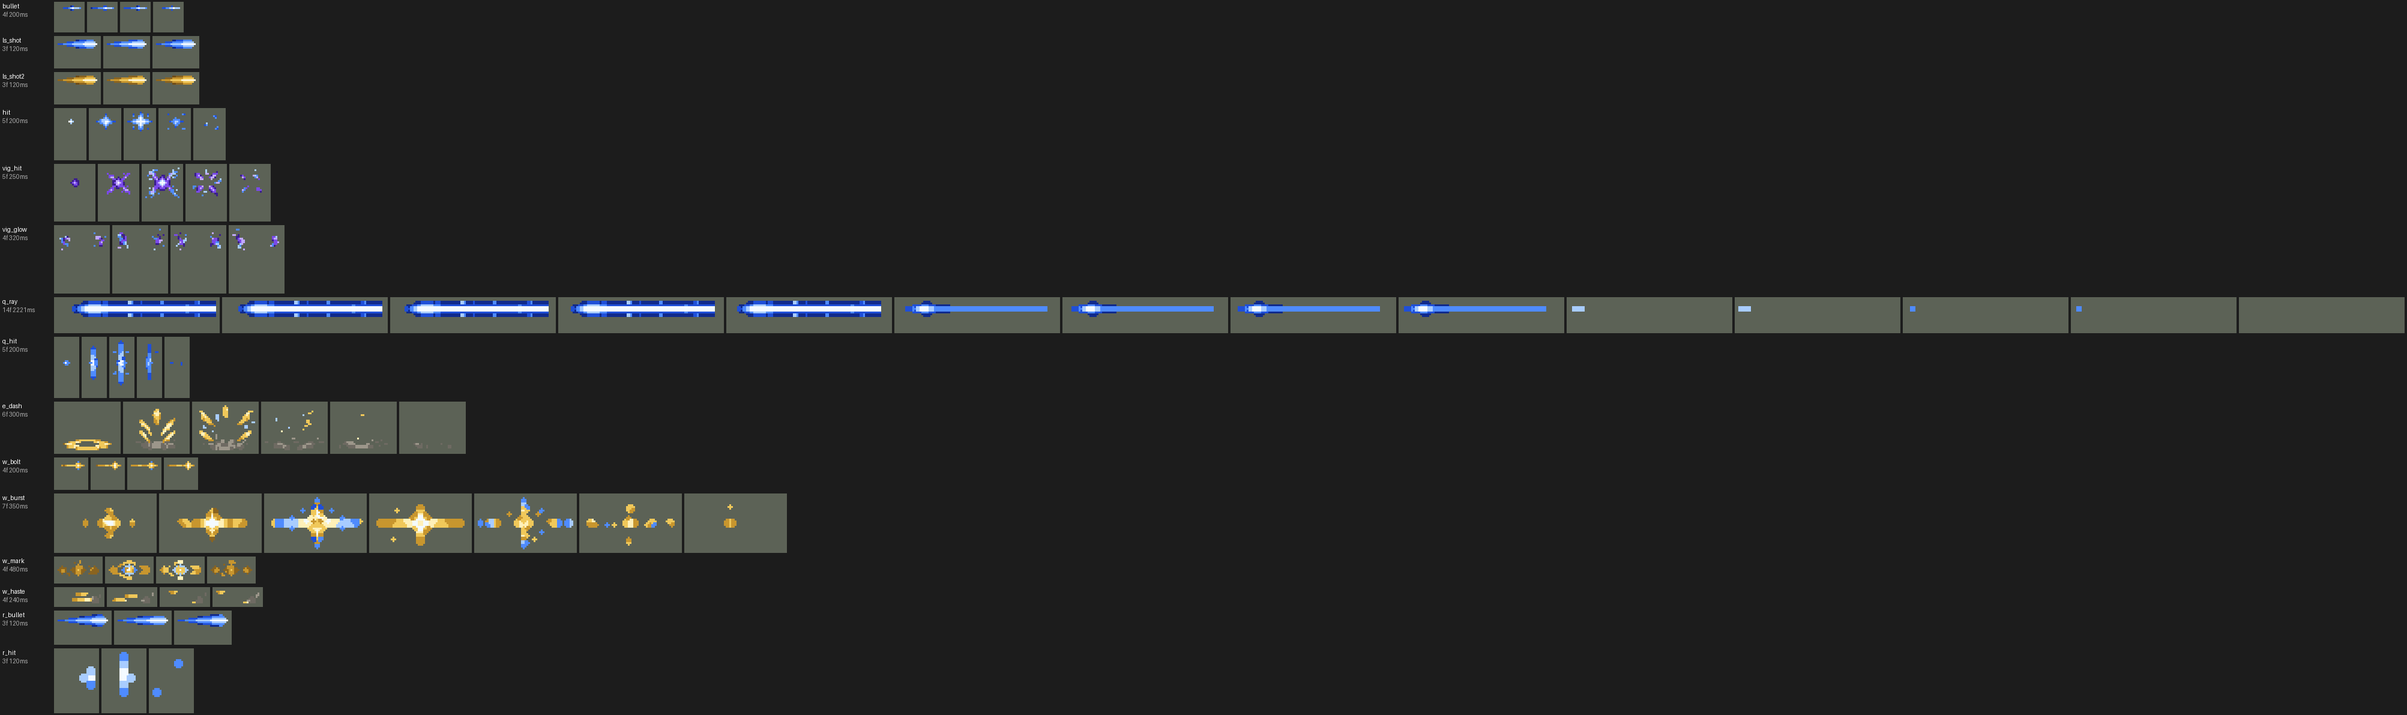
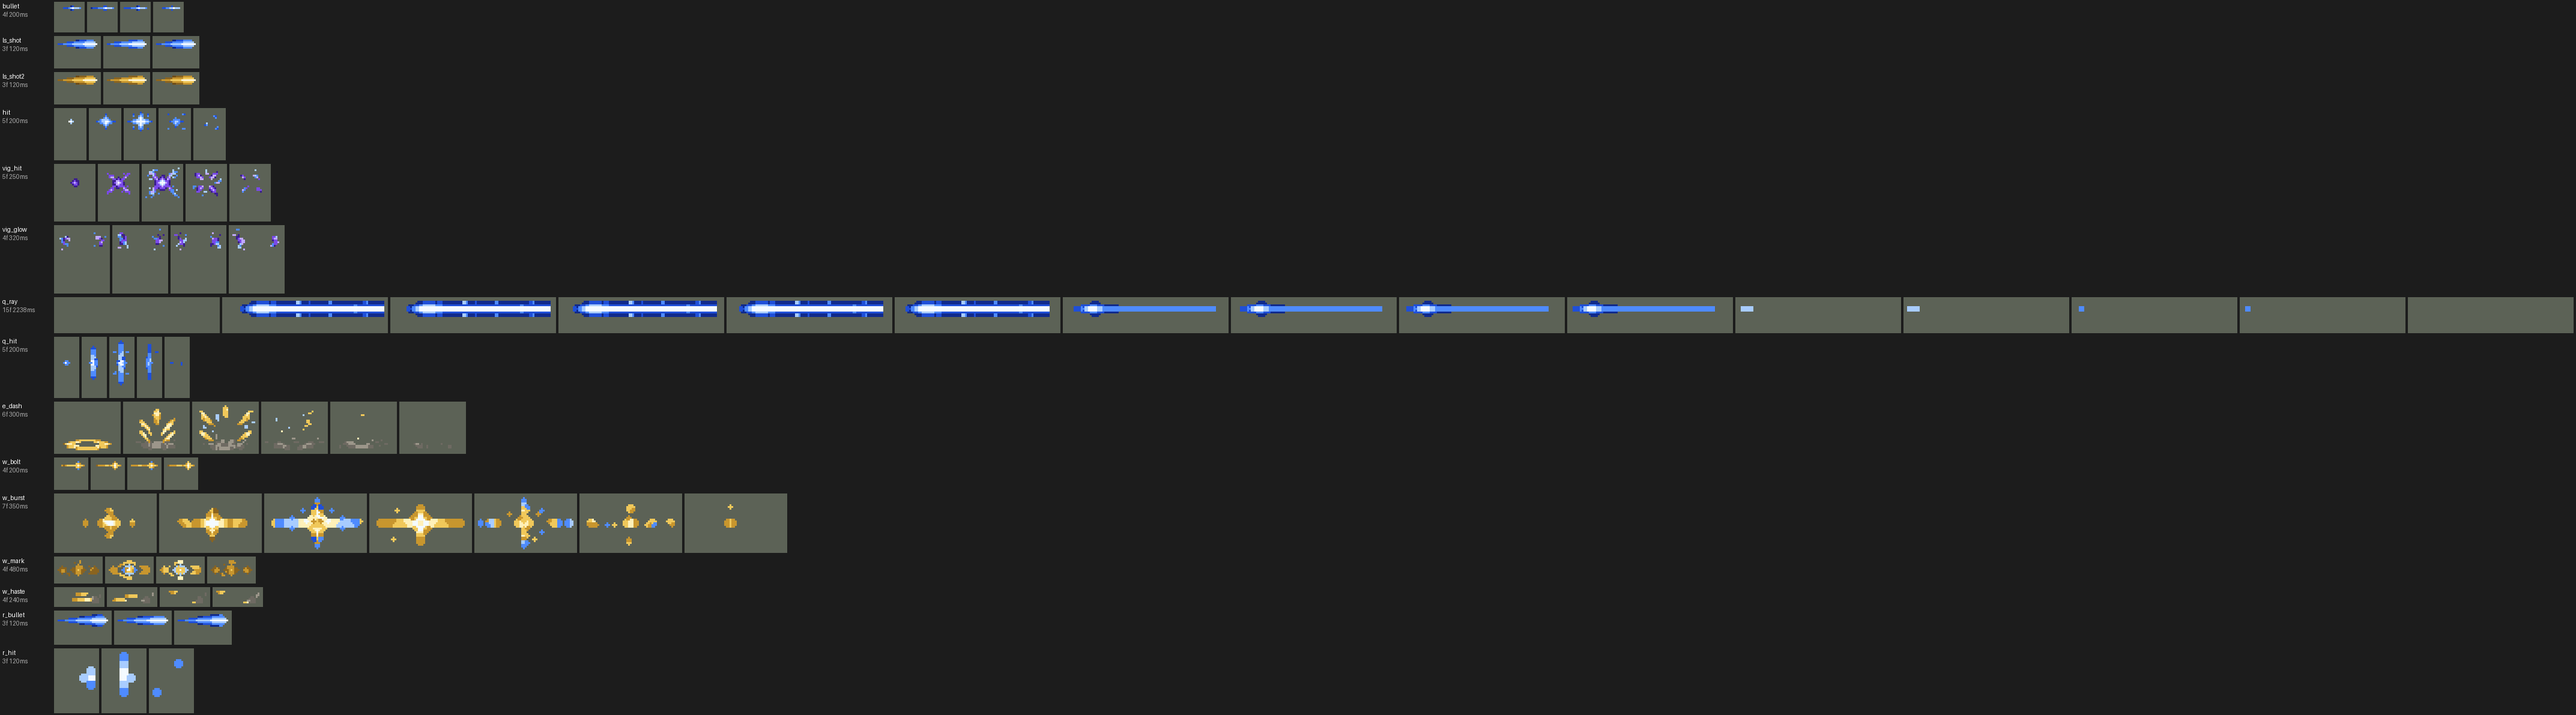
Lucian: previews with the Q beam's empty first tick

diff --git a/README.md b/README.md
@@ -50,7 +50,7 @@
 ![费德提克演示：跑进场，站着不动后的第一记普攻（巫骇草人）吓跑德莱厄斯、Q 恐惧的乌鸦扑向盖伦，幽灵稻草人从他身上尖叫着冒出来，盖伦恐惧逃开、两人走回来，费德提克上前再打德莱厄斯一下、技能2 的夜割新月斩在盖伦身上（正中的盖伦被缝上嘴沉默，德莱厄斯只受伤减速），接着五骨丰登引导 2 秒，魂一缕缕从两人身上被吸出来，两人身上各连出一条魂链、白魂沿着链流回费德提克，最后一下整个魂影被撕出、两人后撤，R 群鸦风暴在盖伦脚下亮起鸦群印记，引导 1 秒后费德提克化成乌鸦飞走、落在印记上，鸦群绕着他转 5 秒，落地时两人恐惧逃开，德莱厄斯倒在风暴里](docs/preview/league_fiddlesticks_showcase.gif?v=0930d)
 ![阿狸演示：跑进场、E 魅惑妖术的飞吻命中德莱厄斯，他头上冒爱心、朝阿狸走过来、Q 欺诈宝珠穿过他再飞回（回程真实伤害），同时妖异狐火绕身三圈后追向被魅惑的德莱厄斯、普攻、三个技能命中后摄魂夺魄攒满，腰间亮起精魄光点、R 灵魄突袭三段：贴身时往后冲并留下灵气、精魄弹命中，攒满的被动给阿狸回血，再往前冲、又退开，德莱厄斯倒下、盖伦走来，再一记飞吻魅惑他、宝珠往返、三次普攻](docs/preview/league_ahri_showcase.gif?v=1001edge)
 
-![卢锡安演示：跑进场，德莱厄斯还在射程外，E 冷酷追击往前冲到射程内，热诚烈弹在他脚下炸开星形十字并标记他、接下来两次普攻都连开两枪（第二枪金色），每次命中加速（脚下的速度线）、Q 透体圣光：双枪平举在肩膀高度，光束从枪口穿过德莱厄斯，再连开两枪、一发普攻、R 圣枪洗礼原地连射 3 秒蓝白曳光弹，每枪射向最近的英雄，德莱厄斯倒下，剩下的打向走来的盖伦、盖伦贴身，E 冷却好后往后冲出他的攻击范围，烈弹在盖伦身上炸开，接着连开两枪](docs/preview/league_lucian_showcase.gif?v=0930c)
+![卢锡安演示：跑进场，德莱厄斯还在射程外，E 冷酷追击往前冲到射程内，热诚烈弹在他脚下炸开星形十字并标记他、接下来两次普攻都连开两枪（第二枪金色），每次命中加速（脚下的速度线）、Q 透体圣光：双枪平举在肩膀高度，光束从枪口穿过德莱厄斯，再连开两枪、一发普攻、R 圣枪洗礼原地连射 3 秒蓝白曳光弹，每枪射向最近的英雄，德莱厄斯倒下，剩下的打向走来的盖伦、盖伦贴身，E 冷却好后往后冲出他的攻击范围，烈弹在盖伦身上炸开，接着连开两枪](docs/preview/league_lucian_showcase.gif?v=1001qflash)
 
 ![莫甘娜演示：走上前放 Q 暗之禁锢，弹核拖着锁链尾迹飞向德莱厄斯，禁锢锁链缠住他、脚下铺开折磨之影的焦油地；上前打两发暗影弹；德莱厄斯挣脱冲过来时她给自己套上黑暗之盾；R 灵魂镣铐的爆环扩到大招范围、锁链扣住他，他拖着锁链走近，3 秒后锁链崩断，头顶亮起眩晕法阵，他倒下](docs/preview/league_morgana_showcase.gif?v=0930c)
 
